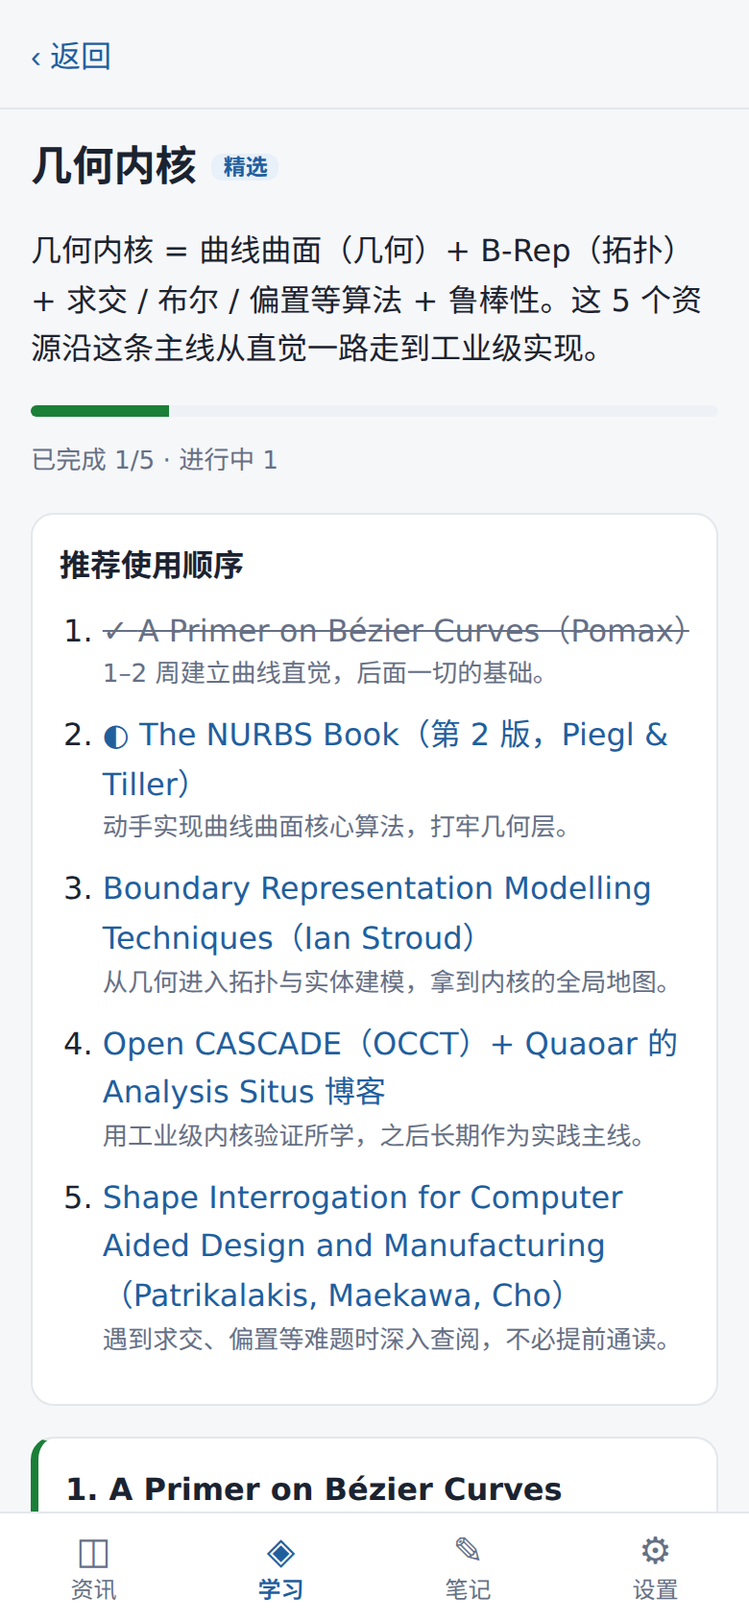
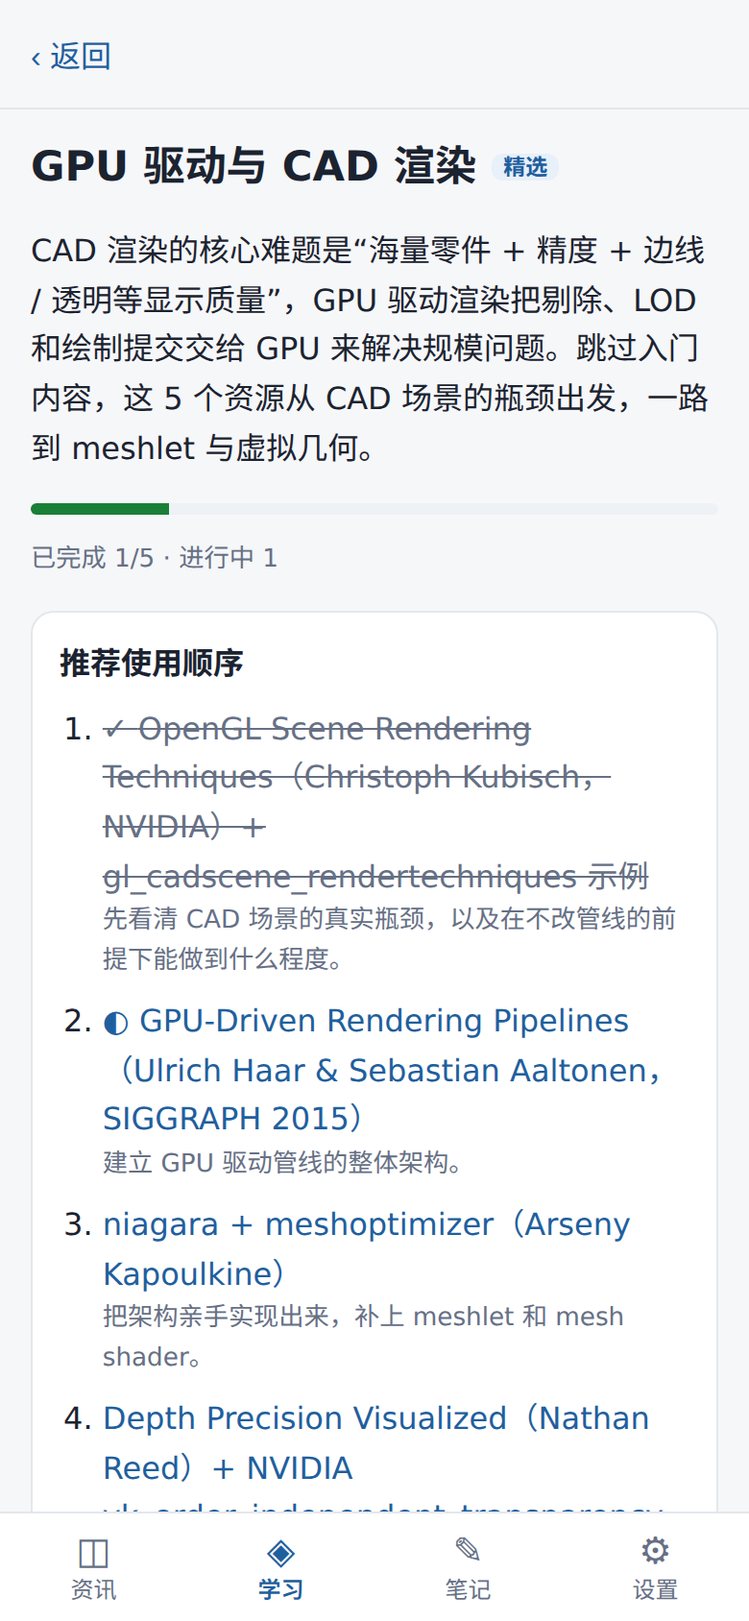
学习路线聚焦 GPU 驱动渲染与 CAD 渲染，去掉新手级资源
- 渲染路线改为「GPU 驱动与 CAD 渲染」：CAD 场景渲染技术（NVIDIA gl_cadscene）、
  GPU-Driven Rendering Pipelines、niagara + meshoptimizer、深度精度与 OIT、Nanite
- 几何内核路线去掉入门读物，加入 Shewchuk 鲁棒谓词
- AI 生成默认只推荐中级/高级资源，可勾选包含新手资源
- config.yaml 兴趣描述与标签侧重 GPU 驱动和 CAD 渲染，入门内容打低分；新增 zeux.io 订阅源

Changed region(s): [[0.0308, 0.0924, 0.9538, 0.9242], [0.0308, 0.8934, 0.0615, 0.9242]]

diff --git a/web/src/curated.ts b/web/src/curated.ts
@@ -1,7 +1,7 @@
 import type { LearningPath } from './types';
 
 /**
- * 内置学习路线：按“学习策展人”模板精选，每个主题 5 个学习杠杆最高的资源。
+ * 内置学习路线：按“学习策展人”模板精选，每个主题 5 个学习杠杆最高的资源，不含新手级资源。
  * 链接已人工核实（2026-11）。修改时保持 order 里的 name 与 resources 的 name 一致。
  */
 export const BUILTIN_PATHS: LearningPath[] = [
@@ -11,19 +11,8 @@ export const BUILTIN_PATHS: LearningPath[] = [
     topic: 'geometry',
     source: 'builtin',
     intro:
-      '几何内核 = 曲线曲面（几何）+ B-Rep（拓扑）+ 求交 / 布尔 / 偏置等算法 + 鲁棒性。这 5 个资源沿这条主线从直觉一路走到工业级实现。',
+      '几何内核 = 曲线曲面（几何）+ B-Rep（拓扑）+ 求交 / 布尔 / 偏置等算法 + 鲁棒性。跳过入门读物，这 5 个资源从核心算法直达工业级实现和鲁棒性。',
     resources: [
-      {
-        name: 'A Primer on Bézier Curves（Pomax）',
-        type: '交互式网站（免费）',
-        url: 'https://pomax.github.io/bezierinfo/',
-        why: '每个概念都配可拖动的图和伪代码，把 de Casteljau、细分、求导、包围盒、曲线求交这些内核最底层的操作讲得最直观；免费，手机上也能读。',
-        teaches: '贝塞尔曲线的求值与细分、导数 / 法线 / 曲率、极值与包围盒、曲线–曲线求交（细分裁剪），以及 B 样条入门：NURBS 的地基。',
-        bestFor: '需要“看见”算法才能理解的视觉型学习者；数学基础一般、想先建立直觉的人。',
-        level: '新手',
-        howTo: '不要从头读到尾。按“求值 → 细分 → 导数 → 包围盒 → 求交 → B 样条”挑章节；每章读完用熟悉的语言实现一遍（几十行），画出来验证结果。',
-        avoid: '别在曲线拟合、弧长近似、绘图 API 等小节上花太多时间，它们离内核主线较远；也别停留在贝塞尔，一两周内进入 B 样条 / NURBS。',
-      },
       {
         name: 'The NURBS Book（第 2 版，Piegl & Tiller）',
         type: '书籍',
@@ -58,6 +47,17 @@ export const BUILTIN_PATHS: LearningPath[] = [
         avoid: '不要通读 OCCT 源码或参考手册（规模巨大）；不要在可视化（AIS / V3d）和 GUI 框架上花时间，它们与内核算法无关。',
       },
       {
+        name: 'Robust Predicates（Jonathan Shewchuk）',
+        type: '论文 + 开源代码',
+        url: 'https://www.cs.cmu.edu/~quake/robust.html',
+        why: '几何内核“偶尔算错、偶尔崩溃”的根源大多是浮点误差导致的拓扑判断不一致。Shewchuk 的自适应精度谓词是这个问题最经典、最实用的解法，Triangle、TetGen 等网格工具都基于它，也是理解 CGAL“精确谓词、非精确构造”思想的入口。',
+        teaches: '浮点误差如何让 orient / incircle 等判定自相矛盾、误差界与过滤、自适应精确算术的实现：内核的“鲁棒性层”，对网格布尔、Delaunay 剖分、点在多边形内等判定直接可用。',
+        bestFor: '已经写过求交或布尔代码、被随机失败困扰，想从根上理解鲁棒性的工程师。',
+        level: '高级',
+        howTo: '先读论文引言和关于 orient2d / orient3d 的章节，弄懂“为什么近乎共线时会判断错”；然后把 predicates.c 接进自己的一个小算法（如凸包或三角剖分），用近退化输入对比普通浮点和精确谓词的结果。之后读 CGAL 文档里 Kernel 的精确性说明做延伸。',
+        avoid: '不必推导所有误差界证明或手写扩展精度算术，直接用现成实现；它解决的是“判定”问题，参数曲面的容差问题仍要回到 OCCT 的容差模型。',
+      },
+      {
         name: 'Shape Interrogation for Computer Aided Design and Manufacturing（Patrikalakis, Maekawa, Cho）',
         type: '在线书（MIT 免费）',
         url: 'https://web.mit.edu/hyperbook/Patrikalakis-Maekawa-Cho/',
@@ -70,10 +70,10 @@ export const BUILTIN_PATHS: LearningPath[] = [
       },
     ],
     order: [
-      { name: 'A Primer on Bézier Curves（Pomax）', reason: '1–2 周建立曲线直觉，后面一切的基础。' },
       { name: 'The NURBS Book（第 2 版，Piegl & Tiller）', reason: '动手实现曲线曲面核心算法，打牢几何层。' },
       { name: 'Boundary Representation Modelling Techniques（Ian Stroud）', reason: '从几何进入拓扑与实体建模，拿到内核的全局地图。' },
       { name: 'Open CASCADE（OCCT）+ Quaoar 的 Analysis Situs 博客', reason: '用工业级内核验证所学，之后长期作为实践主线。' },
+      { name: 'Robust Predicates（Jonathan Shewchuk）', reason: '被随机失败困扰时，从根上理解并解决判定的鲁棒性。' },
       {
         name: 'Shape Interrogation for Computer Aided Design and Manufacturing（Patrikalakis, Maekawa, Cho）',
         reason: '遇到求交、偏置等难题时深入查阅，不必提前通读。',
@@ -82,74 +82,80 @@ export const BUILTIN_PATHS: LearningPath[] = [
   },
   {
     id: 'realtime-rendering',
-    title: '实时渲染',
+    title: 'GPU 驱动与 CAD 渲染',
     topic: 'rendering',
     source: 'builtin',
     intro:
-      '实时渲染 = 图形管线基本功 + 光传输直觉 + 基于物理的材质与光照 + 工业界的工程取舍。按下面顺序，从写出第一个渲染器走到看懂 3A 引擎的技术分享。',
+      'CAD 渲染的核心难题是“海量零件 + 精度 + 边线 / 透明等显示质量”，GPU 驱动渲染把剔除、LOD 和绘制提交交给 GPU 来解决规模问题。跳过入门内容，这 5 个资源从 CAD 场景的瓶颈出发，一路到 meshlet 与虚拟几何。',
     resources: [
       {
-        name: 'LearnOpenGL',
-        type: '网站教程（免费）',
-        url: 'https://learnopengl.com/',
-        why: '从创建窗口一路带你写出带 PBR、阴影、延迟渲染、SSAO 的现代光栅化渲染器；每章都有完整可运行代码，是公认最好的入门路径。',
-        teaches: '图形管线、着色器、变换与相机、纹理、光照、帧缓冲、阴影贴图、延迟渲染、HDR / Bloom、PBR 与 IBL：实时渲染的基本功。',
-        bestFor: '想通过写代码学图形学的初学者；需要可运行示例建立信心的人。',
-        level: '新手',
-        howTo: '按 Getting started → Lighting → Advanced Lighting → PBR 的顺序，每章自己敲一遍代码，再做一个小改动（换光照模型、加一个后处理）。理解概念后，可以用同样的章节结构在 Vulkan 或 WebGPU 里重写。',
-        avoid: '别在窗口库、模型加载（Assimp）、文字渲染这类工程杂事上卡太久，能跑就行；也别纠结 OpenGL 旧 API 的细节，可迁移的是概念。',
-      },
-      {
-        name: 'Ray Tracing in One Weekend 系列',
-        type: '在线书（免费）',
-        url: 'https://raytracing.github.io/',
-        why: '一个周末从零写出路径追踪器，几百行代码就能弄懂光线、材质和蒙特卡洛积分，这是理解 PBR、全局光照、实时光追和降噪的前提。',
-        teaches: '光线求交、漫反射 / 金属 / 玻璃材质、抗锯齿、景深；后两本讲 BVH 加速结构、纹理、重要性采样。',
-        bestFor: '想弄懂“光照为什么这样算”的学习者；喜欢短周期、快速出成果的人。',
-        level: '新手',
-        howTo: '第一本一个周末做完；第二本只做 BVH 一章（与几何内核的空间加速结构相通）；第三本（The Rest of Your Life）读重要性采样部分。把输出图和实时渲染里的近似效果对比。',
-        avoid: '不要追求渲染速度或多线程优化，那不是本书目标；第三本的概率推导卡住时，先抓住“采样与方差”的直觉再回头。',
-      },
-      {
-        name: 'Filament：Physically Based Rendering 文档（Google）',
-        type: '技术文档（免费）',
-        url: 'https://google.github.io/filament/Filament.html',
-        why: '写给工程师、可直接落地的实时 PBR 完整说明：每个公式都给出推导、取舍理由和着色器代码，比论文系统、比教程深入。',
-        teaches: '微表面 BRDF（GGX、Smith、Fresnel）、能量守恒与多次散射补偿、物理光照单位、IBL 预计算、清漆 / 各向异性 / 布料材质、相机曝光：现代引擎材质系统的标准做法。',
-        bestFor: '做完入门教程、想把 PBR 理解到“能自己改”的人。',
+        name: 'OpenGL Scene Rendering Techniques（Christoph Kubisch，NVIDIA）+ gl_cadscene_rendertechniques 示例',
+        type: '演讲幻灯片 + 开源示例',
+        url: 'https://github.com/nvpro-samples/gl_cadscene_rendertechniques',
+        why: '少有的专门针对 CAD 场景的渲染资料：成千上万个零件、几何基本不变但矩阵和材质频繁修改。示例把多种提交策略并排实现并给出性能对比，直接说明 CAD 查看器为什么会卡在 CPU 和驱动上，以及怎么解决。',
+        teaches: 'CAD 场景的数据组织（装配树、零件、材质、矩阵）、drawcall 瓶颈分析、MultiDrawIndirect 与 bindless、状态排序、“实体 + 边线”显示（polygon offset）：CAD 渲染的工程基本盘。',
+        bestFor: '做过或正在做 CAD / BIM / DCC 查看器、熟悉 OpenGL 或 Vulkan 的开发者。',
         level: '中级',
-        howTo: '精读“材质系统”和“光照”两章，对照 LearnOpenGL 的 PBR 代码逐项比较差异，并实现一处改进（例如多次散射能量补偿）。其余章节当参考。',
-        avoid: '不要深挖与 Filament 引擎自身绑定的部分（材质编译器、平台实现）；不必一次读完所有材质模型。',
+        howTo: '先读 README 里链接的 SIGGRAPH 2014 幻灯片，再编译示例，逐个切换 renderer 和 strategy，记下 CPU / GPU 时间，理解每种做法省掉了什么开销。最后把结论对照到你熟悉的 CAD 查看器的卡顿场景。',
+        avoid: 'NV_command_list 是 NVIDIA 专有扩展，了解思路即可，不必深究；示例里的 Blinn-Phong 着色不是重点，别花时间改材质。',
       },
       {
-        name: 'Real-Time Rendering（第 4 版）及 realtimerendering.com',
-        type: '书籍 + 资源网站',
-        url: 'https://www.realtimerendering.com/',
-        why: '实时渲染的“百科全书”，几乎覆盖所有主题并附大量文献指引；配套网站维护着最全的免费资源和历年 SIGGRAPH 课程链接。遇到新主题，从这里最快找到靠谱资料。',
-        teaches: '全景式覆盖：着色、纹理、阴影、全局光照、抗锯齿、体积与半透明、加速结构、GPU 架构，帮你建立领域地图和资料索引。',
-        bestFor: '有基础、需要系统梳理和查资料的中级学习者；需要做技术选型的人。',
-        level: '中级',
-        howTo: '不要从头读。先通读目录建立地图，再按手头需要读 1–2 章（例如做阴影时读第 7 章），顺着每章参考文献找原始论文和演讲。收藏网站的 Resources 页。',
-        avoid: '不要当教程逐章精读：没有代码，读完记不住；部分内容已被新实践取代，用最新的 SIGGRAPH 课程补充。',
-      },
-      {
-        name: 'SIGGRAPH「Advances in Real-Time Rendering in Games」课程',
-        type: '会议课程（幻灯片 / 视频，免费）',
-        url: 'https://advances.realtimerendering.com/',
-        why: '一线 3A 工作室每年公开他们真正落地的渲染技术（虚拟几何、实时全局光照、新一代阴影与抗锯齿等），是“业界现在怎么做”的最高信号来源。',
-        teaches: '前沿生产实践：虚拟几何与 GPU 驱动渲染、实时全局光照、时域抗锯齿与超分、体积云与大气等，把原理和真实引擎设计连起来。',
-        bestFor: '掌握基础、想了解业界前沿与工程取舍的进阶学习者。',
+        name: 'GPU-Driven Rendering Pipelines（Ulrich Haar & Sebastian Aaltonen，SIGGRAPH 2015）',
+        type: '会议演讲（幻灯片）',
+        url: 'https://advances.realtimerendering.com/s2015/aaltonenhaar_siggraph2015_combined_final_footer_220dpi.pdf',
+        why: 'GPU 驱动渲染的奠基性演讲（《刺客信条：大革命》）。“把场景切成小簇、在 GPU 上剔除并生成间接绘制”这一整套思路此后被各大引擎沿用，Nanite 等后来的方案都建立在它之上。',
+        teaches: '网格簇（cluster）划分、GPU 上的视锥 / 遮挡剔除（Hi-Z 深度金字塔）、簇级背面剔除、间接绘制、虚拟纹理：GPU 驱动管线的完整架构。',
+        bestFor: '理解传统渲染管线、想把绘制提交从 CPU 搬到 GPU 的渲染工程师。',
         level: '高级',
-        howTo: '每年挑 2–3 个与你方向相关的演讲（关注几何内核的话，优先看虚拟几何、网格处理类），看幻灯片而不只是视频，按“问题 → 约束 → 方案 → 代价”做笔记。用本 App 订阅的 Graphics Programming Weekly 追踪新演讲。',
-        avoid: '不要每年把所有演讲看完，大多与你无关；基础不牢时别急着看，只会记住名词。',
+        howTo: '边读边画出整条管线的数据流（哪些缓冲、哪个 pass 读写什么）；重点吃透 GPU 遮挡剔除，它在 CAD 装配体这类遮挡严重的场景收益最大（之后在 Nanite 里会看到更完善的两阶段做法）。读完用 niagara 的代码对照每一步。',
+        avoid: '演讲里针对当年主机硬件的具体优化（如特定的数据打包、平台限制）已经过时，略读；虚拟纹理部分与 CAD 关系不大，可以跳过。',
+      },
+      {
+        name: 'niagara + meshoptimizer（Arseny Kapoulkine）',
+        type: '开源项目 + 直播录像',
+        url: 'https://github.com/zeux/niagara',
+        why: '作者在直播中从零写出一个 Vulkan GPU 驱动渲染器，每个决定都讲清了原因，代码小而完整；配套的 meshoptimizer 是业界标准的网格优化库（meshlet 构建、简化、LOD），可以直接用在 CAD 细分出的网格上。',
+        teaches: 'GPU 剔除与场景提交、cone culling、自动遮挡剔除、task / mesh shader、meshlet 构建，以及顶点缓存 / 过绘制优化与网格简化：把 GPU 驱动渲染真正写出来。',
+        bestFor: '能读写 Vulkan 或 D3D12 代码、想动手实现而不只看论文的人。',
+        level: '高级',
+        howTo: '按直播回放的顺序看（README 有播放列表），每看完一集就在自己的分支上实现一遍；用一个真实的 CAD 导出网格（例如 OCCT 细分的 STEP 装配体）替换示例模型，观察剔除和 meshlet 的效果。',
+        avoid: '不要在 Vulkan 初始化、窗口、着色器编译这些样板代码上逐行跟；也不必追求和直播完全一致的实现，抓住每集要解决的问题。',
+      },
+      {
+        name: 'Depth Precision Visualized（Nathan Reed）+ NVIDIA vk_order_independent_transparency 示例',
+        type: '技术文章 + 开源示例',
+        url: 'https://www.reedbeta.com/blog/depth-precision-visualized/',
+        why: 'CAD 显示质量的两大常见问题：大尺度装配体里的深度冲突（z-fighting），以及外壳透明、玻璃、透视模式下的透明排序。这两份资料分别把原理和可比较的实现讲透了。',
+        teaches: '深度缓冲精度的分布、reversed-Z 与浮点深度、近远平面取舍；七种顺序无关透明（OIT）算法的效果、显存与性能取舍，包括加权混合 OIT：CAD 查看器的显示正确性。',
+        bestFor: '已经能渲染 CAD 模型、开始处理“远处闪烁”“透明看起来不对”这类显示质量问题的开发者。',
+        level: '中级',
+        howTo: '先读文章，在自己的渲染器里切换到 reversed-Z + 浮点深度，对比大装配体远处的闪烁；再运行 OIT 示例，按“效果 / 显存 / 速度”给几种算法打分，选一种用到透视或剖切显示中。',
+        avoid: '不必实现全部七种 OIT 算法，挑一种近似算法和一种精确算法就够了；别为追求极限精度去做双精度光栅化，相对视点坐标等工程手段通常更划算。',
+      },
+      {
+        name: 'A Deep Dive into Nanite Virtualized Geometry（Brian Karis，SIGGRAPH 2021）',
+        type: '会议演讲（幻灯片 / 视频）',
+        url: 'https://advances.realtimerendering.com/s2021/Karis_Nanite_SIGGRAPH_Advances_2021_final.pdf',
+        why: '目前虚拟几何的标杆方案：让屏幕上的三角形数量和场景规模基本脱钩。对动辄上亿面的 CAD / BIM 装配体，这是“不需要人工 LOD 也能流畅显示”的方向，演讲把关键设计和取舍讲得非常坦诚。',
+        teaches: '簇层级与 DAG 形式的 LOD（无裂缝切换）、基于误差的 LOD 选择、两阶段遮挡剔除、软件光栅化小三角形、可见性缓冲、几何流式加载与压缩：GPU 驱动渲染的前沿。',
+        bestFor: '已掌握 GPU 驱动管线和 meshlet、想做超大模型显示的高级渲染工程师。',
+        level: '高级',
+        howTo: '先读 LOD DAG 和剔除两部分，用 meshoptimizer 的简化接口在小模型上复现“簇分组 → 简化 → 再分簇”的流程；其余部分（软件光栅、流式加载）按需要再看。CAD 场景尤其要注意它对细长三角形和硬边的处理。',
+        avoid: '不要试图完整复刻 Nanite，工作量极大；与引擎集成相关的内容（材质系统、Unreal 工具链）跳过即可。',
       },
     ],
     order: [
-      { name: 'LearnOpenGL', reason: '先写出能跑的渲染器，掌握管线和着色器基本功。' },
-      { name: 'Ray Tracing in One Weekend 系列', reason: '用一个周末补上光传输直觉，为 PBR 做准备。' },
-      { name: 'Filament：Physically Based Rendering 文档（Google）', reason: '把 PBR 从“会用”提升到“能改”，打通理论与着色器代码。' },
-      { name: 'Real-Time Rendering（第 4 版）及 realtimerendering.com', reason: '此时再用它建立全景地图，之后长期作为按需查阅的参考。' },
-      { name: 'SIGGRAPH「Advances in Real-Time Rendering in Games」课程', reason: '有了基础再看前沿，才能看懂工程取舍。' },
+      {
+        name: 'OpenGL Scene Rendering Techniques（Christoph Kubisch，NVIDIA）+ gl_cadscene_rendertechniques 示例',
+        reason: '先看清 CAD 场景的真实瓶颈，以及在不改管线的前提下能做到什么程度。',
+      },
+      { name: 'GPU-Driven Rendering Pipelines（Ulrich Haar & Sebastian Aaltonen，SIGGRAPH 2015）', reason: '建立 GPU 驱动管线的整体架构。' },
+      { name: 'niagara + meshoptimizer（Arseny Kapoulkine）', reason: '把架构亲手实现出来，补上 meshlet 和 mesh shader。' },
+      {
+        name: 'Depth Precision Visualized（Nathan Reed）+ NVIDIA vk_order_independent_transparency 示例',
+        reason: '规模问题解决后，处理 CAD 显示正确性：深度精度和透明。',
+      },
+      { name: 'A Deep Dive into Nanite Virtualized Geometry（Brian Karis，SIGGRAPH 2021）', reason: '最后进入虚拟几何前沿，面向超大装配体。' },
     ],
   },
 ];

diff --git a/web/src/deepseek.ts b/web/src/deepseek.ts
@@ -13,12 +13,12 @@ const PRICE = { hit: 0.003, miss: 0.15, out: 0.6 };
 
 export class AiError extends Error {}
 
-export function curatorMessages(topic: string, background?: string) {
+export function curatorMessages(topic: string, background?: string, includeBeginner = false) {
   const system = `你是一位专家级学习策展人，熟悉 CAD 几何内核、计算几何与计算机图形学等领域的学习资源。
 只推荐你确定真实存在、口碑公认的资源；不确定的链接宁可留空（null），绝不编造书名、作者或网址。
 用简体中文回答，资源名称保留原文。只输出 json。`;
   const user = `请扮演一位专家级学习策展人。找出学习「${topic}」杠杆最高的 5 个资源。
-${background?.trim() ? `\n我的背景和目标：${background.trim()}\n` : ''}
+${background?.trim() ? `\n我的背景和目标：${background.trim()}\n` : ''}${includeBeginner ? '' : '\n我已有基础，不需要新手级资源：只推荐中级和高级资源，跳过入门教程。\n'}
 资源可以包括书籍、视频、课程、网站、newsletter、社区，或值得关注的专家。
 
 每个资源包含：
@@ -50,7 +50,7 @@ ${background?.trim() ? `\n我的背景和目标：${background.trim()}\n` : ''}
 }
 
 /** 校验并清洗 AI 输出；不合格抛 AiError */
-export function parsePathJson(content: string, topic: string): Omit<LearningPath, 'id' | 'source'> {
+export function parsePathJson(content: string, topic: string, includeBeginner = true): Omit<LearningPath, 'id' | 'source'> {
   let s = content.trim();
   if (s.startsWith('```')) s = s.replace(/^```(?:json)?\s*/, '').replace(/\s*```$/, '');
   let j: Record<string, unknown>;
@@ -78,6 +78,11 @@ export function parsePathJson(content: string, topic: string): Omit<LearningPath
       howTo: text(o.howTo),
       avoid: text(o.avoid),
     });
+  }
+  // 不要新手资源时，AI 仍可能给出个别入门资源：去掉后至少还剩 3 个才去掉
+  if (!includeBeginner) {
+    const advanced = resources.filter((r) => r.level !== '新手');
+    if (advanced.length >= 3) resources.splice(0, resources.length, ...advanced);
   }
   if (resources.length < 3) throw new AiError('AI 返回的资源太少，请换个说法或重试');
 
@@ -119,6 +124,7 @@ export async function generatePath(opts: {
   model?: string;
   topic: string;
   background?: string;
+  includeBeginner?: boolean;
   signal?: AbortSignal;
   fetchImpl?: typeof fetch;
 }): Promise<{ path: Omit<LearningPath, 'id' | 'source'>; costUsd: number }> {
@@ -126,7 +132,7 @@ export async function generatePath(opts: {
   const model = opts.model?.trim() || DEFAULT_MODEL;
   const body = JSON.stringify({
     model,
-    messages: curatorMessages(opts.topic, opts.background),
+    messages: curatorMessages(opts.topic, opts.background, opts.includeBeginner),
     response_format: { type: 'json_object' },
     thinking: { type: 'disabled' },
     max_tokens: 4000,
@@ -155,5 +161,5 @@ export async function generatePath(opts: {
   }
   const j = (await resp.json()) as { choices?: { message?: { content?: string } }[]; usage?: Record<string, number> };
   const content = j.choices?.[0]?.message?.content ?? '';
-  return { path: parsePathJson(content, opts.topic), costUsd: estimateCost(j.usage ?? {}) };
+  return { path: parsePathJson(content, opts.topic, opts.includeBeginner ?? false), costUsd: estimateCost(j.usage ?? {}) };
 }

diff --git a/web/src/learn.test.ts b/web/src/learn.test.ts
@@ -13,7 +13,7 @@ describe('builtin curated paths', () => {
     for (const r of p.resources) {
       expect(r.type).toBeTruthy();
       for (const f of ['name', 'why', 'teaches', 'bestFor', 'howTo', 'avoid'] as const) expect(r[f].length, `${r.name}.${f}`).toBeGreaterThan(5);
-      expect(['新手', '中级', '高级']).toContain(r.level);
+      expect(['中级', '高级']).toContain(r.level); // 内置清单不含新手资源
       expect(r.url).toMatch(/^https:\/\//);
     }
     expect(p.order.map((o) => o.name).sort()).toEqual(p.resources.map((r) => r.name).sort());
@@ -55,6 +55,17 @@ describe('parsePathJson', () => {
     ]);
   });
 
+  it('drops beginner resources unless asked for them (keeps at least 3)', () => {
+    const extra = { name: 'D', type: '论文', why: 'w', teaches: 't', bestFor: 'b', level: '高级', howTo: 'h', avoid: 'x' };
+    const base = JSON.parse(aiJson());
+    const four = JSON.stringify({ ...base, resources: [...base.resources, extra] });
+    expect(parsePathJson(four, 't', false).resources.map((r) => r.name)).toEqual(['B', 'C', 'D']);
+    expect(parsePathJson(four, 't', false).order.map((o) => o.name)).toEqual(['C', 'B', 'D']);
+    expect(parsePathJson(four, 't', true).resources.map((r) => r.name)).toEqual(['A', 'B', 'C', 'D']);
+    // 去掉后不足 3 个：保留原样，不报错
+    expect(parsePathJson(aiJson(), 't', false).resources.map((r) => r.name)).toEqual(['A', 'B', 'C']);
+  });
+
   it('rejects unusable output', () => {
     expect(() => parsePathJson('not json', 't')).toThrow(AiError);
     expect(() => parsePathJson(aiJson({ resources: [{ name: 'only one' }] }), 't')).toThrow('太少');
@@ -66,6 +77,8 @@ describe('parsePathJson', () => {
     expect(user.content).toContain('学习「网格生成」杠杆最高的 5 个资源');
     expect(user.content).toContain('我要的是信号，不是噪音');
     expect(user.content).toContain('我的背景和目标：会 C++');
+    expect(user.content).toContain('不需要新手级资源');
+    expect(curatorMessages('x', '', true)[1].content).not.toContain('不需要新手级资源');
   });
 });
 
@@ -137,8 +150,8 @@ describe('learning paths in Obsidian export and backup', () => {
     expect(md).toContain('1. [/] **C**：先打基础\n2. [x] **A**：再精读\n3. [ ] **B**');
     expect(md).toContain('- 我的笔记：[[Notes/学习：A]]');
     expect(md).not.toContain('javascript:');
-    expect(plan.files.get('CADLearn/学习路线/几何内核.md')).toContain('2. [/] **The NURBS Book');
-    expect(plan.files.has('CADLearn/学习路线/实时渲染.md')).toBe(true);
+    expect(plan.files.get('CADLearn/学习路线/几何内核.md')).toContain('1. [/] **The NURBS Book');
+    expect(plan.files.has('CADLearn/学习路线/GPU 驱动与 CAD 渲染.md')).toBe(true);
 
     const backup = JSON.parse(plan.files.get('CADLearn/cad-learn-backup.json')!);
     expect(Object.keys(backup.aiPaths)).toEqual(['ai-x']);

diff --git a/web/src/pages/GeneratePage.tsx b/web/src/pages/GeneratePage.tsx
@@ -8,7 +8,7 @@ import { navigate } from '../util';
 /** 从「重新生成」带过来的预填内容 */
 export const genPrefill = signal<{ topic: string; background?: string; replaceId?: string } | null>(null);
 
-const SUGGESTIONS = ['CAD 布尔运算', '网格生成与 Delaunay 三角化', '计算几何基础', 'GPU 驱动渲染', 'WebGPU 入门', '曲面细分与 LOD'];
+const SUGGESTIONS = ['Mesh Shader 与 Meshlet', '可见性缓冲（Visibility Buffer）', '超大 CAD 装配体渲染', 'CAD 边线与剖切显示', 'B-Rep 曲面细分（Tessellation）', 'CAD 布尔运算'];
 const TIMEOUT_MS = 120_000;
 
 /** 生成任务放在模块级：切到别的页面不会中断，完成后提示 */
@@ -22,7 +22,8 @@ async function startGeneration(topic: string, background: string, replaceId?: st
   const timer = setTimeout(() => ctrl.abort(), TIMEOUT_MS);
   try {
     const model = settings.value.aiModel || DEFAULT_MODEL;
-    const { path, costUsd } = await generatePath({ key: aiKey.value, model, topic, background, signal: ctrl.signal });
+    const includeBeginner = settings.value.aiIncludeBeginner ?? false;
+    const { path, costUsd } = await generatePath({ key: aiKey.value, model, topic, background, includeBeginner, signal: ctrl.signal });
     addLocalAiCost(costUsd);
     const id = replaceId ?? `ai-${newId()}`;
     saveAiPath({ ...path, id, source: 'ai', createdAt: Date.now(), model, background: background.trim() || undefined, costUsd });
@@ -102,7 +103,7 @@ export function GeneratePage() {
         <label class="field">
           <span>主题</span>
           <input
-            placeholder="例如：CAD 布尔运算、GPU 驱动渲染"
+            placeholder="例如：Mesh Shader、超大 CAD 装配体渲染"
             value={topic}
             maxLength={60}
             onInput={(e) => setTopic((e.target as HTMLInputElement).value)}
@@ -122,11 +123,20 @@ export function GeneratePage() {
           <span>我的背景和目标（可选，让推荐更贴合）</span>
           <textarea
             rows={3}
-            placeholder="例如：会 C++，做过 3 年 CAD 插件开发，想自己实现 NURBS 曲面求交"
+            placeholder="例如：熟悉 Vulkan，在做 CAD 查看器，想解决百万零件装配体的流畅显示"
             value={background}
             maxLength={300}
             onInput={(e) => setBackground((e.target as HTMLTextAreaElement).value)}
           />
+        </label>
+
+        <label class="check">
+          <input
+            type="checkbox"
+            checked={settings.value.aiIncludeBeginner ?? false}
+            onChange={(e) => updateSettings({ aiIncludeBeginner: (e.target as HTMLInputElement).checked })}
+          />
+          包含新手级资源（默认只推荐中级和高级）
         </label>
 
         <div class="actions">

diff --git a/web/src/types.ts b/web/src/types.ts
@@ -86,6 +86,8 @@ export interface Settings {
   aiModel?: string;
   /** 生成学习路线时附带的个人背景（可选） */
   aiBackground?: string;
+  /** AI 生成时是否包含新手级资源（默认不包含） */
+  aiIncludeBeginner?: boolean;
   /** 本机 AI 调用的估算花费（按月） */
   localAi?: { month: string; calls: number; costUsd: number };
 }

diff --git a/web/src/styles.css b/web/src/styles.css
@@ -725,3 +725,15 @@ dl.fields .warn {
   font-weight: 600;
   cursor: pointer;
 }
+
+.check {
+  display: flex;
+  align-items: center;
+  gap: 8px;
+  margin: 6px 0 10px;
+  font-size: 0.9rem;
+}
+.check input {
+  width: 18px;
+  height: 18px;
+}
